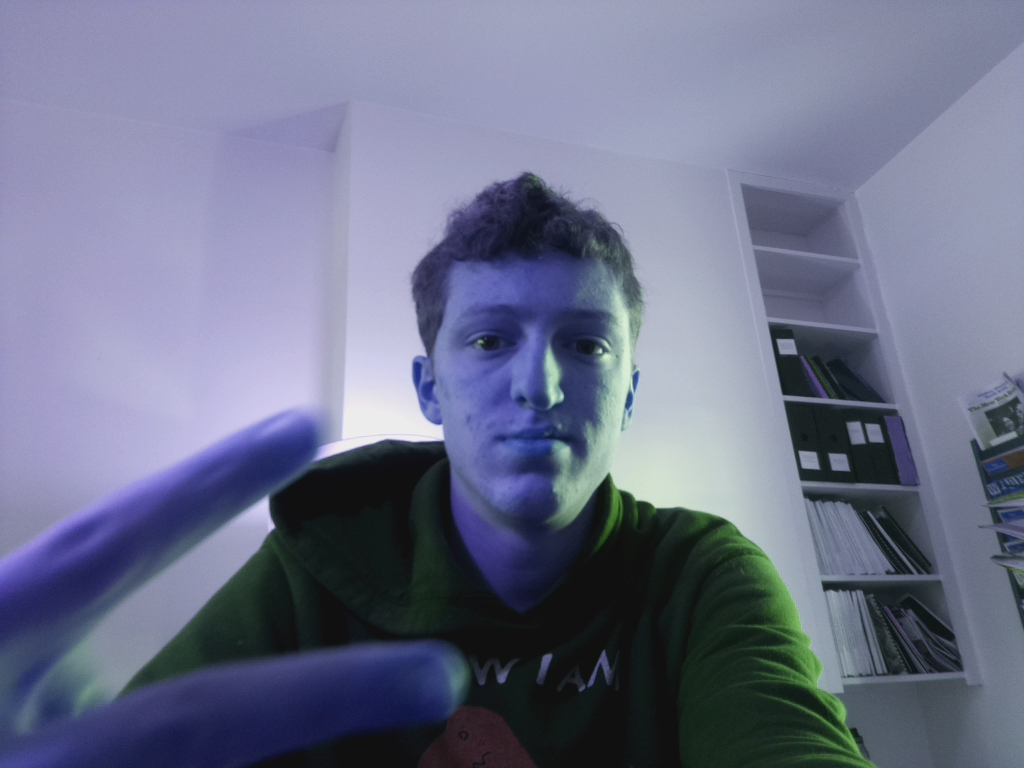
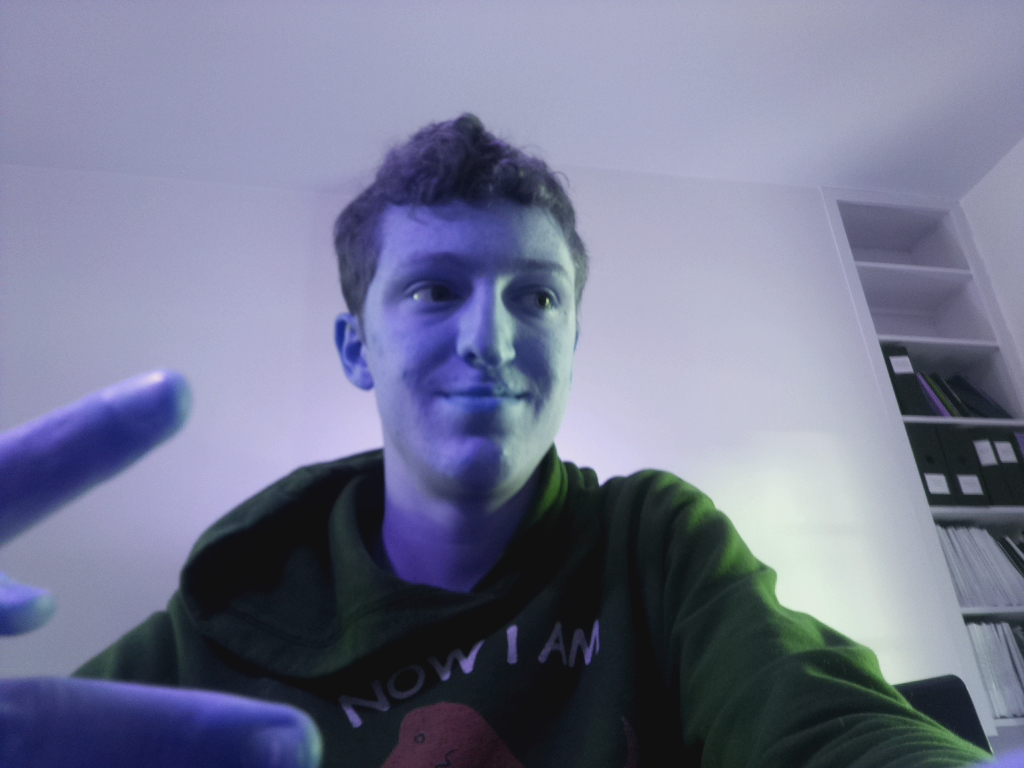
test

diff --git a/Python/camera_test02.py b/Python/camera_test02.py
@@ -5,8 +5,8 @@ print("running! 1")
 
 with picamera.PiCamera() as camera:
     camera.resolution = (1024, 768)
+    camera.image_effect = 'colorswap'   
     camera.start_preview()
-    camera.image_effect = 'colorswap'
     # Camera warm-up time
     time.sleep(2)
     camera.capture('test2.jpg')
@@ -17,8 +17,8 @@ print("running 2!")
 
 with picamera.PiCamera() as camera:
     camera.resolution = (1024, 768)
+    camera.image_effect = 'pastel'
     camera.start_preview()
-    camera.image_effect = 'none'
     # Camera warm-up time
     time.sleep(2)
     camera.capture('test3.jpg')
